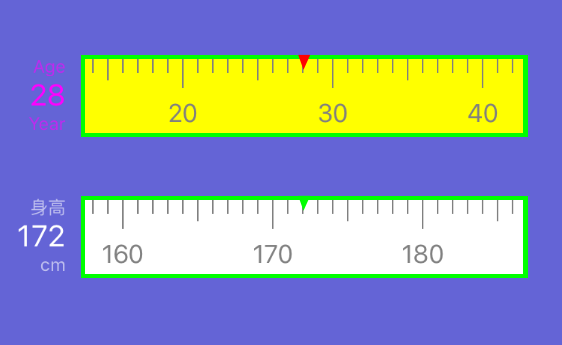
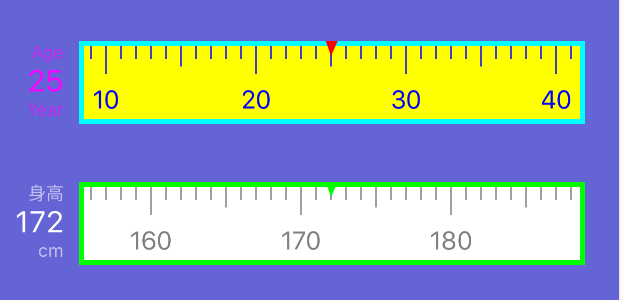
cursor position adjusting

diff --git a/AYPickerDataView/PickerDataView/HLMeasureView.m b/AYPickerDataView/PickerDataView/HLMeasureView.m
@@ -23,7 +23,7 @@
 
 +(instancetype)viewWithFrame:(CGRect)frame valueRangeFrom:(NSNumber *)min toMax:(NSNumber *)max andStartPosition:(CGFloat)startPosition valueLabelColor:(UIColor *)color;
 {
-    CGRect viewFrame = CGRectMake(frame.origin.x, frame.origin.y, frame.size.width + startPosition, frame.size.height);
+    CGRect viewFrame = CGRectMake(frame.origin.x, frame.origin.y, frame.size.width + startPosition + 1, frame.size.height);
     HLMeasureView * measureView = [[HLMeasureView alloc] initWithFrame:viewFrame];
     measureView.startPosition = startPosition;
     measureView.labels = [NSMutableArray array];

diff --git a/AYPickerDataView/PickerDataView/HLPickerCellView.m b/AYPickerDataView/PickerDataView/HLPickerCellView.m
@@ -96,7 +96,15 @@
     //游标指示框
     CGFloat cursorW = 8.0;
     CGFloat cursorH = 10.0;
-    CGFloat cursorDelta = 0.5;
+    CGFloat cursorDelta = 0.0;
+    if (UI_IS_IPHONE5 || UI_IS_IPHONE6PLUS) {
+        cursorDelta = 0.5;
+    } else if (UI_IS_IPHONE6){
+        cursorDelta = 0.0;
+    }else {
+        cursorDelta = 0.0;
+    }
+    
     UIBezierPath *path = [UIBezierPath bezierPath];
     [path moveToPoint:CGPointMake((valueScrollView.width - cursorW) /2 + valueScrollView.x, 0)];
     [path addLineToPoint:CGPointMake((valueScrollView.width + cursorW) /2 + valueScrollView.x, 0)];

diff --git a/AYPickerDataView/PickerDataView/HLPickerScrollView.m b/AYPickerDataView/PickerDataView/HLPickerScrollView.m
@@ -35,7 +35,7 @@ static CGFloat sStartPoint = 11.0;
     if (UI_IS_IPHONE5) {
         sStartPoint = 11;
     }else if (UI_IS_IPHONE6) {
-        sStartPoint = 38.5;
+        sStartPoint = 39;
     } else if (UI_IS_IPHONE6PLUS) {
         sStartPoint = 58;
     } else {

diff --git a/README.md b/README.md
@@ -1,6 +1,8 @@
 #AYPickerDataView
 =================
-A pickerView library for iOS
+###A pickerView library for iOS
+###滚动选择条 
+----
 
 ###Screenshots
 ---
@@ -8,12 +10,23 @@ A pickerView library for iOS
 
 
 ###How to use
+###如何使用
 ---
 #### #import "AYPickerDataView.h"
-#####     
+
+    
+    HLPickerCellView *cellView = [HLPickerCellView viewWithFrame:frame Name:@"Age" unit:@"Year" valueRangeFromMin:@0 toMax:@100 defaultValue:@25 andOwner:self   type:HLPersonCellViewEnumAge];
+    
 	cellView.scaleBackgroundColor = [UIColor yellowColor];
     cellView.scaleColor = [UIColor blueColor];
     cellView.scaleBorderWidth = 3.0;
     cellView.scaleCursorColor = [UIColor redColor];
     cellView.resultTextColor = [UIColor magentaColor];
+        
+### happy hacking, enjoy!
+ 
+ 
+    
+    
+
     
